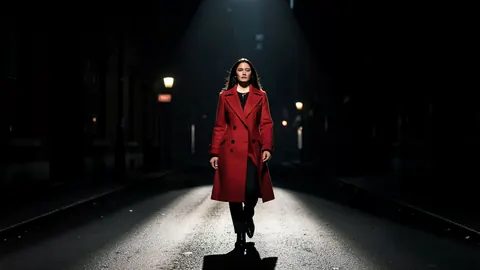
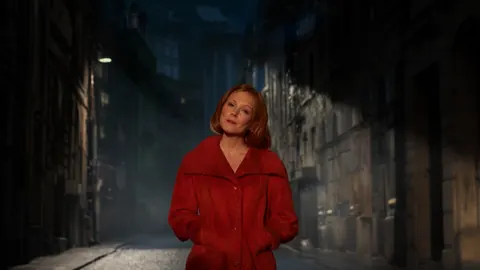
Every look: seven looks remade with Qwen Image 2.1, each look credited with its model

diff --git a/server/src/shared/exploreShowcase.ts b/server/src/shared/exploreShowcase.ts
@@ -15,7 +15,7 @@
  *  - EXPLORE_SHEETS: "One character. Every angle." (four GPT Image 2.5 Flare character sheets, the highlight stepping across each sheet's real
  *    panels; Mossbun also as a Tripo 3.1 model to spin).
  *  - EXPLORE_BOARD: the actual Canvas built-in demo recording (scripted, sample results, no paid runs).
- *  - EXPLORE_LOOKS: "One idea. Every look." (one FLUX.2 [klein] 4B prompt in twelve looks: a big frame and twelve tiles).
+ *  - EXPLORE_LOOKS: "One idea. Every look." (one prompt in twelve looks, each credited with its model: a big frame and twelve tiles).
  *  - EXPLORE_YOUR_TURN: "Now it's your turn." (the page's last section: a prompt box over a drifting wall of things made here).
  *  - EXPLORE_MOODS: the Audio dancer showcase (the words that pick SyteSim's dance style, a tempo for the demo beat).
  *  - EXPLORE_FILM: "Mockup to film" (Direct a Shot made real: the mockup, its first frame painted into a photo, the film; replaces the Worlds tiles).
@@ -324,11 +324,13 @@ export const EXPLORE_BOARD = {
  *  Each look ships as a 1024 px frame (`look-<id>.webp`) and a 480 px tile (`look-<id>-480.webp`), metadata stripped. */
 const KLEIN_LOOKS: [id: string, name: string][] = [['golden-hour', 'Golden hour'], ['film-noir', 'Film noir'], ['neon-rain', 'Neon rain'], ['teal-orange', 'Teal & orange'],
   ['35mm', '35mm'], ['documentary', 'Documentary'], ['studio-white', 'Studio white'], ['spotlight', 'Spotlight'], ['pastel', 'Pastel'], ['anime', 'Anime'], ['watercolour', 'Watercolour'], ['clay', 'Clay']];
+/** Looks remade with Qwen Image 2.1 (same prompt and seed; sharper faces); the rest are FLUX.2 [klein] 4B. */
+const QWEN_LOOKS = new Set(['golden-hour', 'neon-rain', 'teal-orange', '35mm', 'studio-white', 'spotlight', 'pastel']);
 export const EXPLORE_LOOKS = {
   eyebrow: 'Image · one prompt, twelve looks', title: ['One idea.', 'Every look.'],
   line: 'Write it once. Then change the light, the film, the whole art style. Same scene, same coat, twelve different worlds.',
   model: 'FLUX.2 [klein] 4B', place: 'Free on your computer', /** the look shown first (Anime) */ start: 9,
-  looks: KLEIN_LOOKS.map(([id, name]) => ({ id, name, url: P(`look-${id}.webp`), thumb: P(`look-${id}-480.webp`) })),
+  looks: KLEIN_LOOKS.map(([id, name]) => ({ id, name, url: P(`look-${id}.webp`), thumb: P(`look-${id}-480.webp`), model: QWEN_LOOKS.has(id) ? 'Qwen Image 2.1' : 'FLUX.2 [klein] 4B' })),
   cta: { label: 'Try your own look', href: '/tools/create-image?model=flux-2-klein-4b' },
 };
 
@@ -336,7 +338,7 @@ export const EXPLORE_LOOKS = {
 /** One tile on the closing wall: a picture made in this app and the model that made it. */
 export interface WallTile { src: string; model: string; star?: boolean }
 const wallOf = (key: string): WallTile | null => { const f = featuredByKey(key); return f?.out.poster ? { src: f.out.poster, model: f.model } : null; };
-const look = (id: string): WallTile => ({ src: P(`look-${id}-480.webp`), model: EXPLORE_LOOKS.model });
+const look = (id: string): WallTile => ({ src: P(`look-${id}-480.webp`), model: EXPLORE_LOOKS.looks.find((l) => l.id === id)?.model ?? EXPLORE_LOOKS.model });
 const GPT = 'GPT Image 2.5 Flare', ZIT = 'Z-Image-Turbo', KLEIN = 'FLUX.2 [klein] 4B';
 export const EXPLORE_YOUR_TURN = {
   eyebrow: 'Everything above was made in this app', title: ['Now it’s', 'your turn.'],

diff --git a/web/src/ui/explore/ExploreShowcase.tsx b/web/src/ui/explore/ExploreShowcase.tsx
@@ -260,7 +260,7 @@ export function XpLayers() {
 }
 
 /* ============================================================== One idea. Every look. ============================================================== */
-/** One FLUX.2 [klein] 4B prompt in twelve looks (EXPLORE_LOOKS): the copy on the left, the look in a big 16:9 frame on the right, twelve tiles
+/** One prompt in twelve looks (EXPLORE_LOOKS: FLUX.2 [klein] 4B and Qwen Image 2.1, each credited): the copy on the left, the look in a big 16:9 frame on the right, twelve tiles
  *  under both. Hovering, focusing or tapping a tile shows its look (a crossfade; reduced motion: a cut). */
 export function XpLooks() {
   const L = EXPLORE_LOOKS; const [cur, setCur] = useState(L.start); const now = L.looks[cur];
@@ -269,7 +269,7 @@ export function XpLooks() {
       <span className="xv-eb">{L.eyebrow}</span>
       <h2 id="xp-h-looks" className="xps-h xlk-h">{L.title.map((l) => <span key={l}>{l}</span>)}</h2>
       <p className="xps-p">{L.line}</p>
-      <span className="xlk-meta" data-testid="xp-looks-model"><span className="xv-pill">{L.model}</span><span className="xv-free"><i />{L.place}</span></span>
+      <span className="xlk-meta" data-testid="xp-looks-model"><span className="xv-pill">{now.model}</span><span className="xv-free"><i />{L.place}</span></span>
       <span className="xps-ctas"><Link to={L.cta.href} className="xv-btn" data-testid="xp-looks-cta">{L.cta.label}<Arrow /></Link></span>
     </div>
     <figure className="xlk-frame" data-testid="xp-looks-frame">

diff --git a/server/test/explore-flows.test.ts b/server/test/explore-flows.test.ts
@@ -312,6 +312,7 @@ ok(`${EXPLORE_ROWS.length} rows, ${EXPLORE_CARDS.length} cards: each opens a rea
   { const L = X.EXPLORE_LOOKS; assert.equal((X as Record<string, unknown>).EXPLORE_IMAGES, undefined, 'Stills with a point of view is gone');
     assert.deepEqual(L.looks.map((l) => l.name), ['Golden hour', 'Film noir', 'Neon rain', 'Teal & orange', '35mm', 'Documentary', 'Studio white', 'Spotlight', 'Pastel', 'Anime', 'Watercolour', 'Clay']);
     assert.equal(L.model, 'FLUX.2 [klein] 4B'); assert.equal(L.looks[L.start].name, 'Anime');
+    assert.equal(L.looks.find((l) => l.id === 'neon-rain')?.model, 'Qwen Image 2.1'); assert.equal(L.looks.find((l) => l.id === 'anime')?.model, 'FLUX.2 [klein] 4B');
     for (const l of L.looks) for (const u of [l.url, l.thumb]) { assert.match(u, /^\/showcase\/look-[a-z0-9-]+\.webp$/, `${u}: a neutral name`); assert.ok(fs.existsSync(path.join(PUB, u)), `${u}: shipped`); }
     const Y = X.EXPLORE_YOUR_TURN; const wall = Y.wall.flat(); assert.equal(Y.wall.length, 6); assert.ok(wall.length >= 28, `about 30 on the wall (${wall.length})`);
     for (const t of wall) { assert.ok(fs.existsSync(path.join(PUB, t.src)), `${t.src}: shipped`); assert.ok(t.model, `${t.src}: names its model`); if (/\/(wall|look)-/.test(t.src)) assert.match(t.src, /^\/showcase\/(wall|look)-[a-z0-9-]+\.webp$/, `${t.src}: a neutral name`); }
